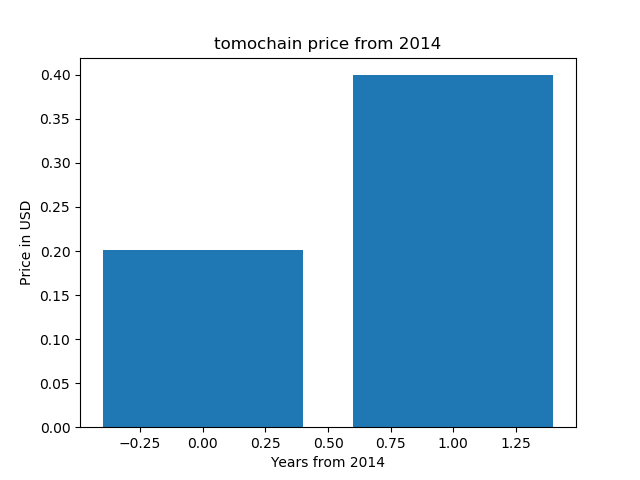
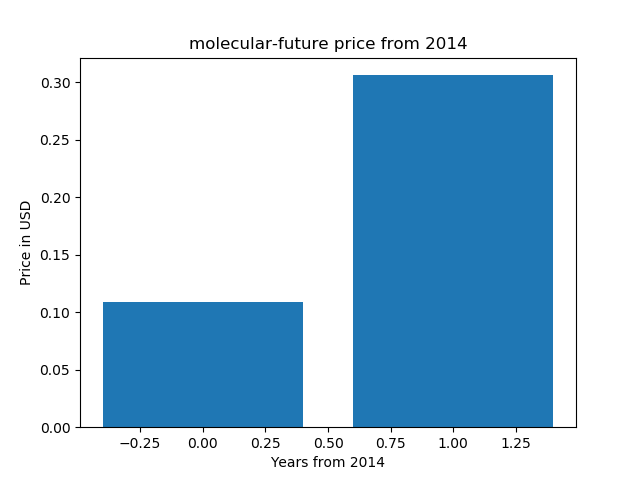
first commit

diff --git a/example.py b/example.py
@@ -10,7 +10,7 @@ from time import gmtime, strftime
 import matplotlib.pyplot as plt
 
 enddate = strftime("%Y%m%d", gmtime())
-r  = requests.get("https://coinmarketcap.com/currencies/tomochain/historical-data/?start=20140101&end={0}".format(enddate))
+r  = requests.get("https://coinmarketcap.com/currencies/molecular-future/historical-data/?start=20140101&end={0}".format(enddate))
 data = r.text
 
 soup = BeautifulSoup(data, "html.parser")
@@ -44,7 +44,7 @@ print(x)
 
 x = list(range(0, len(prices)))
 
-plt.title('tomochain price from 2014')
+plt.title('molecular-future price from 2014')
 plt.ylabel('Price in USD')
 plt.xlabel('Years from 2014')
 plt.bar(x, prices)

diff --git a/README.md b/README.md
@@ -1,6 +1,6 @@
-# tomochain price chart 
+# molecular-future price chart 
 
-tomochain price chart (matplotlib, python)
+molecular-future price chart (matplotlib, python)
 
 https://pythonprogramminglanguage.com
 
